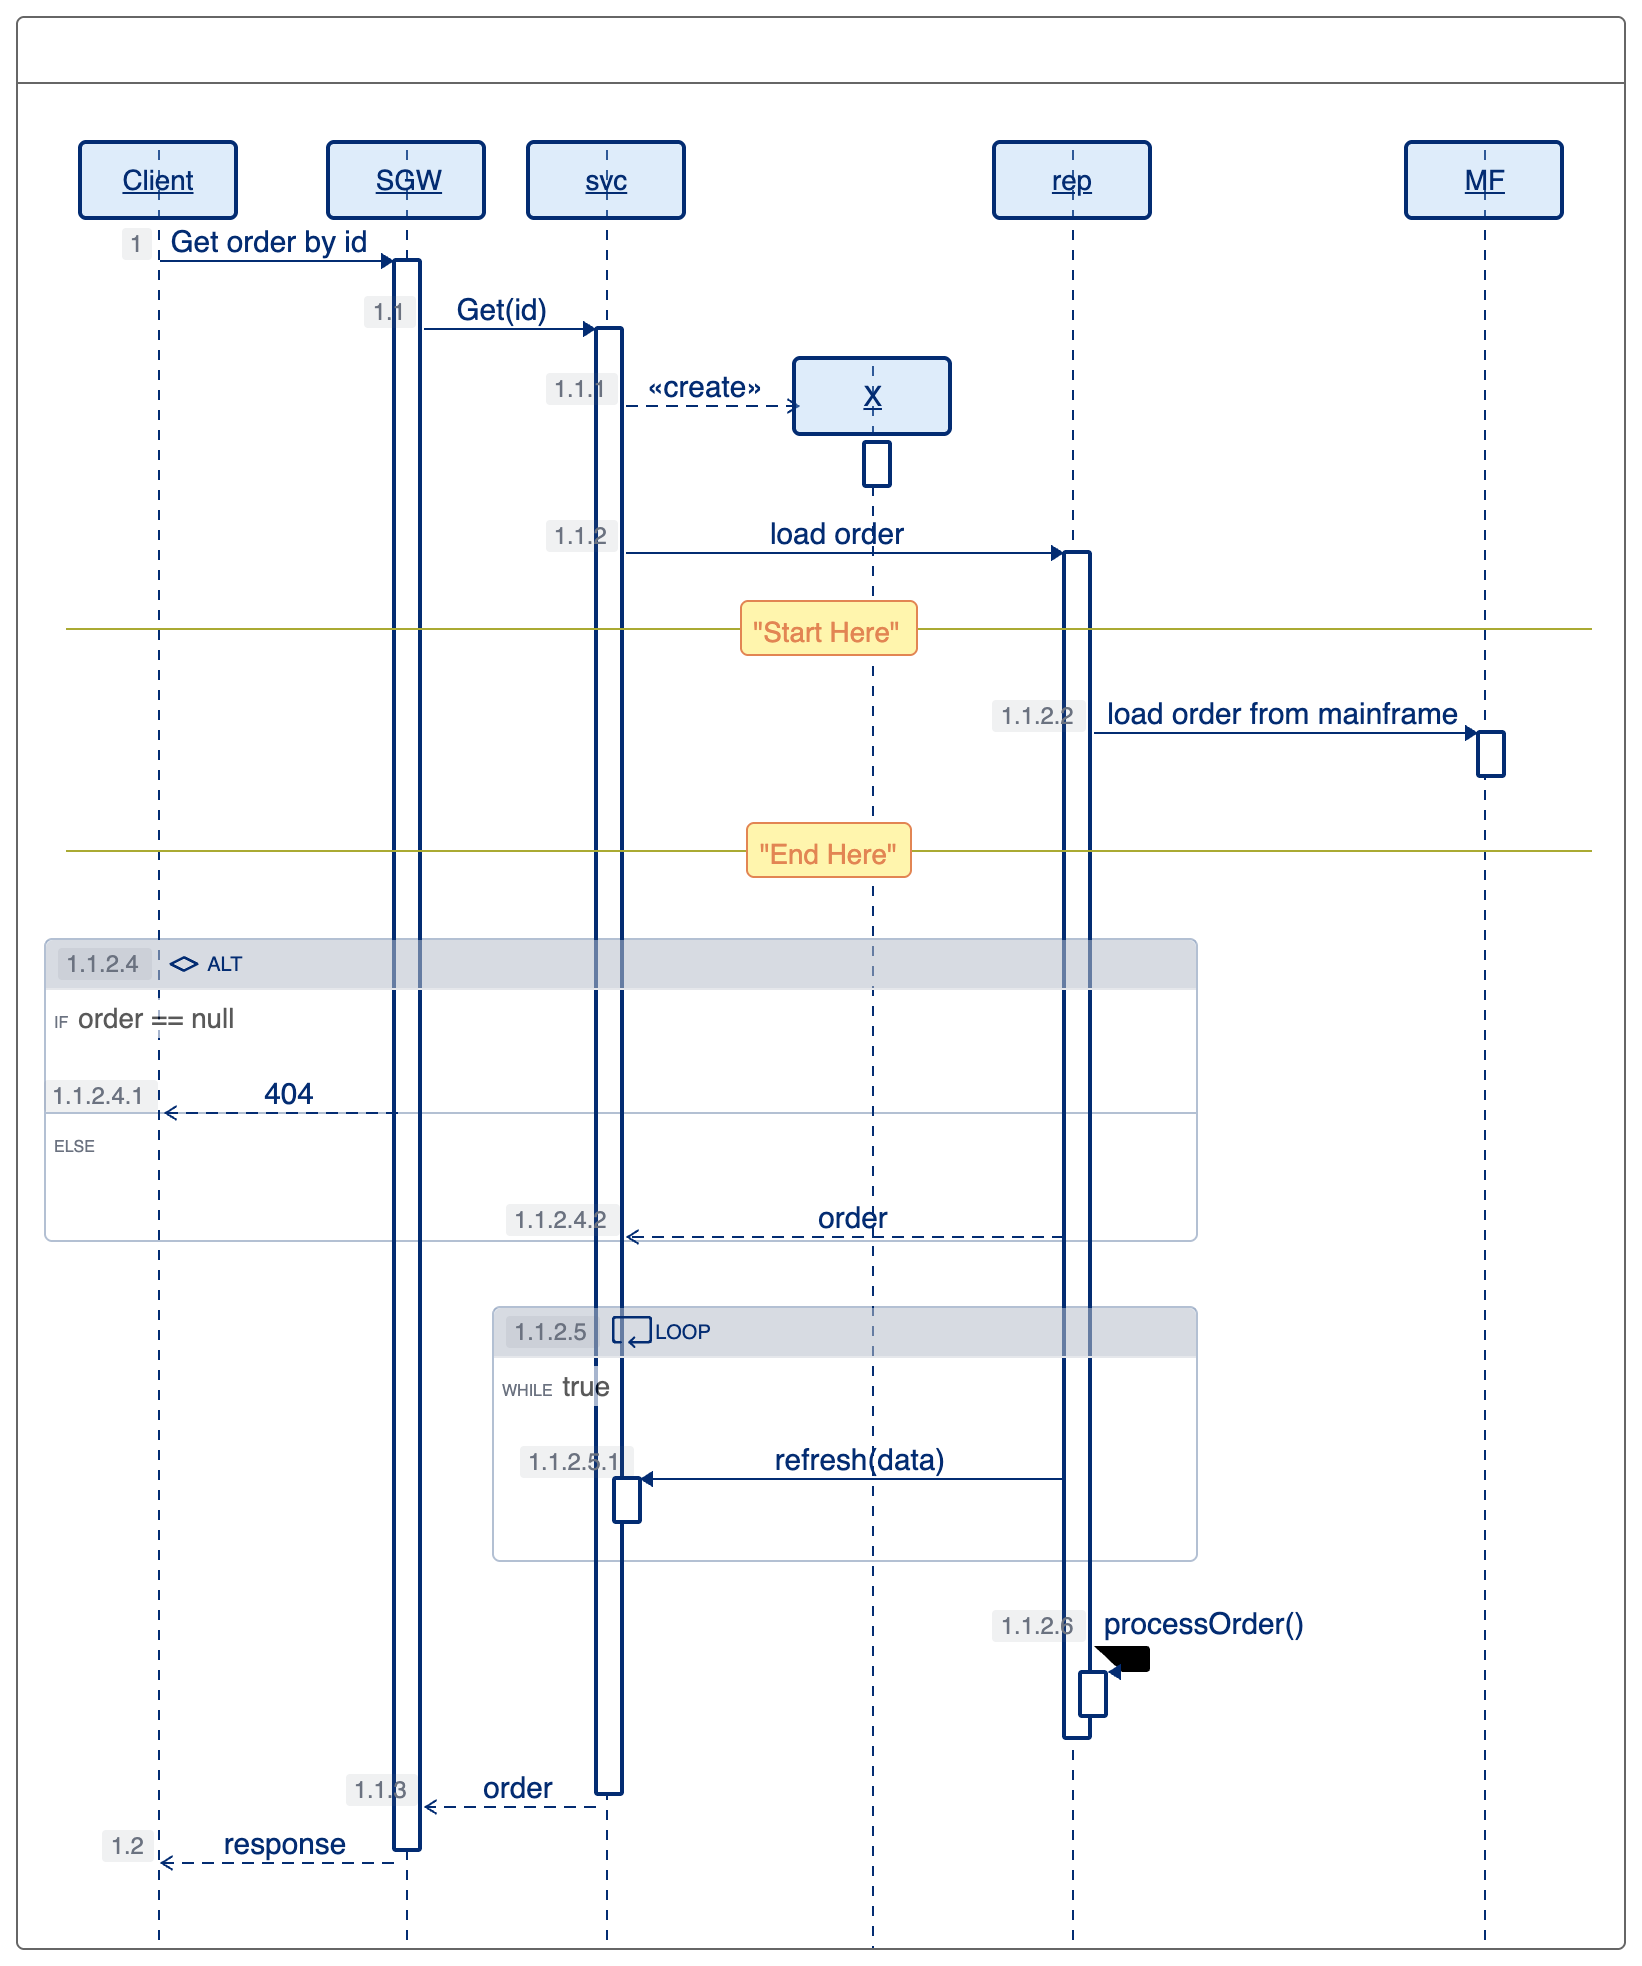
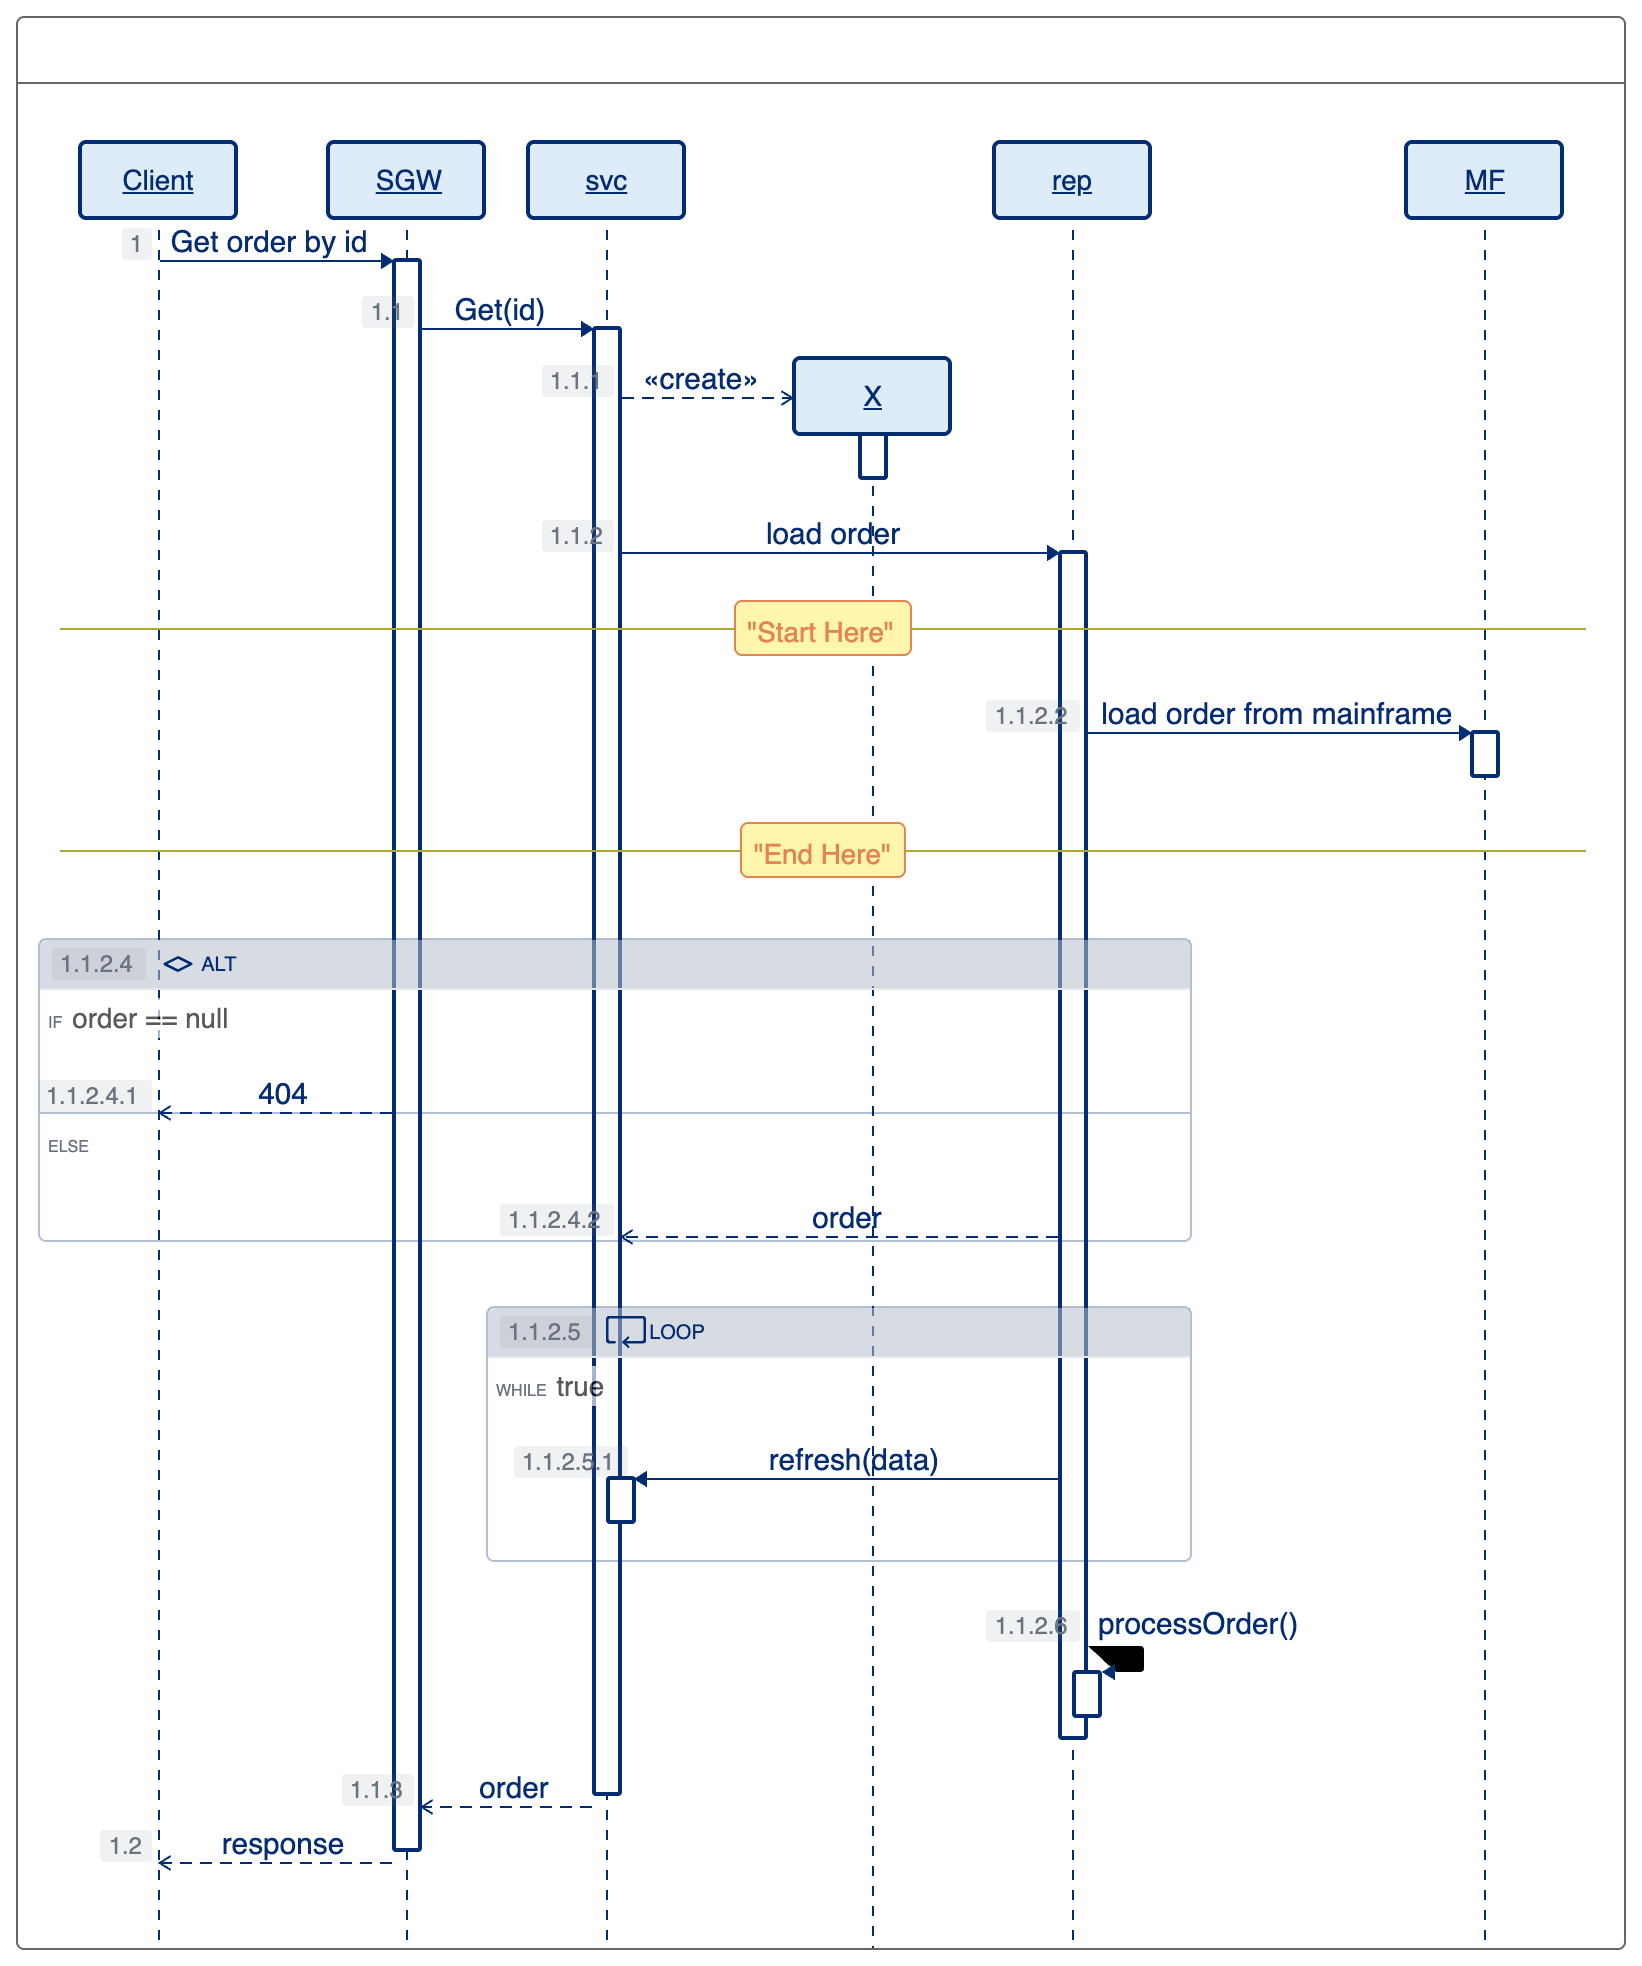
docs: verify integrated Blue geometry and transparent exports

diff --git a/artifacts/blue-integrated/preview.html b/artifacts/blue-integrated/preview.html
@@ -1,0 +1,1 @@
+<!doctype html><meta charset="utf-8"><title>Blue 当前本地候选</title><h1>Blue：透明外围与对齐修复</h1><p>使用当前 4467 候选，链接内含模板数据，可在不同浏览器中打开。</p><p><a href="http://127.0.0.1:4467/?code=%7B%22title%22%3A%22Advanced%22%2C%22mainSizes%22%3A%5B30%2C70%5D%2C%22htmlMode%22%3A%22html%22%2C%22cssMode%22%3A%22less%22%2C%22jsMode%22%3A%22js%22%2C%22js%22%3A%22Client-%3ESGW.%5C%22Get%20order%20by%20id%5C%22%20%7B%5Cn%20%20svc.Get(id)%20%7B%5Cn%20%20%20%20new%20X()%5Cn%20%20%20%20rep.%5C%22load%20order%5C%22%20%7B%5Cn%20%20%20%20%20%20%3D%3D%5C%22Start%20Here%5C%22%3D%3D%5Cn%20%20%20%20%20%20MF.%5C%22load%20order%20from%20mainframe%5C%22%5Cn%20%20%20%20%20%20%3D%3D%5C%22End%20Here%5C%22%3D%3D%5Cn%20%20%20%20%20%20if(order%20%3D%3D%20null)%20%7B%5Cn%20%20%20%20%20%20%20%20%40return%20%5Cn%20%20%20%20%20%20%20%20SGW-%3EClient%3A404%5Cn%20%20%20%20%20%20%7D%20else%20%7B%5Cn%20%20%20%20%20%20%20%20return%20order%5Cn%20%20%20%20%20%20%7D%5Cn%20%20%20%20%20%20%5Cn%20%20%20%20%20%20while(true)%20%7B%5Cn%20%20%20%20%20%20%20%20svc.refresh(data)%5Cn%20%20%20%20%20%20%7D%5Cn%20%20%20%20%20%20processOrder()%5Cn%20%20%20%20%7D%5Cn%20%20%20%20return%20order%5Cn%20%20%7D%5Cn%20%20return%20response%5Cn%7D%22%2C%22css%22%3A%22%40fragmentBorderColor%3A%20rgba(4%2C%2046%2C%20110%2C%200.30)%3B%5Cn%40nameBackgroundColor%3A%20rgba(4%2C%2046%2C%20110%2C%200.10)%3B%5Cn%40labelTextColor%3A%20%23032C72%3B%5Cn%40messageLineColor%3A%20%23032C72%3B%5Cn%40occuranceBorderColor%3A%20%23032C72%3B%5Cn%40occuranceBackgroundColor%3A%20%23fff%3B%5Cn%40participantLineColor%3A%20%23032C72%3B%5Cn%40participantBorderColor%3A%20%23032C72%3B%5Cn%40participantTextColor%3A%20%23032C72%3B%5Cn%40participantBackgroundColor%3A%20rgba(146%2C%20192%2C%20240%2C%200.30)%3B%5Cn%40dividerBackgroundColor%3A%20%23E28553%3B%5Cn%40dividerBorderColor%3A%20%23E28553%3B%5Cn%40dividerTextColor%3A%20%23E28553%3B%5Cn%5Cn%23diagram%20%7B%5Cn%20%20.sequence-diagram%20%7B%5Cn%20%20%20%20.divider%20%7B%5Cn%20%20%20%20%20%20.name%20%7B%5Cn%20%20%20%20%20%20%20%20padding%3A%202px%206px%202px%206px%3B%5Cn%20%20%20%20%20%20%20%20border-radius%3A%204px%3B%5Cn%20%20%20%20%20%20%20%20margin%3A%200px%3B%5Cn%20%20%20%20%20%20%20%20border-color%3A%20%40dividerBorderColor%3B%5Cn%20%20%20%20%20%20%20%20color%3A%20%40dividerTextColor%3B%5Cn%20%20%20%20%20%20%7D%5Cn%20%20%20%20%20%20.left%20%7B%5Cn%20%20%20%20%20%20%20%20background%3A%20%40dividerBackgroundColor%3B%5Cn%20%20%20%20%20%20%7D%5Cn%20%20%20%20%20%20.right%20%7B%5Cn%20%20%20%20%20%20%20%20background%3A%20%40dividerBackgroundColor%3B%5Cn%20%20%20%20%20%20%7D%5Cn%20%20%20%20%7D%5Cn%20%20%20%20.lifeline%20%7B%5Cn%20%20%20%20%20%20.participant%20%7B%5Cn%20%20%20%20%20%20%20%20font-weight%3A%20400%3B%5Cn%20%20%20%20%20%20%20%20border%3A%202px%20solid%20%40participantBorderColor%3B%5Cn%20%20%20%20%20%20%20%20background%3A%20%40participantBackgroundColor%3B%20%20%20%20%20%20%5Cn%20%20%20%20%20%20%20%20label%20%7B%5Cn%20%20%20%20%20%20%20%20%20%20text-decoration%3A%20underline%3B%5Cn%20%20%20%20%20%20%20%20%20%20color%3A%20%40participantTextColor%3B%5Cn%20%20%20%20%20%20%20%20%7D%5Cn%20%20%20%20%20%20%7D%5Cn%20%20%20%20%20%20.line%20%7B%5Cn%20%20%20%20%20%20%20%20border-left-color%3A%20%40participantLineColor%3B%5Cn%20%20%20%20%20%20%7D%5Cn%20%20%20%20%7D%5Cn%20%20%20%20.message%20%7B%5Cn%20%20%20%20%20%20.name%20%7B%5Cn%20%20%20%20%20%20%20%20padding-bottom%3A%201px%3B%5Cn%20%20%20%20%20%20%20%20color%3A%20%40messageLineColor%3B%5Cn%20%20%20%20%20%20%7D%5Cn%20%20%20%20%20%20border-bottom-color%3A%20%40messageLineColor%3B%5Cn%20%20%20%20%20%20svg%20%7B%5Cn%20%20%20%20%20%20%20%20polyline%20%7B%5Cn%20%20%20%20%20%20%20%20%20%20fill%3A%20%40messageLineColor%3B%5Cn%20%20%20%20%20%20%20%20%20%20stroke%3A%20%40messageLineColor%3B%5Cn%20%20%20%20%20%20%20%20%7D%5Cn%20%20%20%20%20%20%7D%5Cn%20%20%20%20%7D%5Cn%20%20%20%20.message.self%20%7B%5Cn%20%20%20%20%20%20svg%3Epolyline%3Anot(.head)%20%7B%5Cn%20%20%20%20%20%20%20%20fill%3A%20none%3B%5Cn%20%20%20%20%20%20%7D%5Cn%20%20%20%20%7D%5Cn%20%20%20%20.occurrence%20%7B%5Cn%20%20%20%20%20%20background-color%3A%20white%3B%5Cn%20%20%20%20%20%20border%3A%202px%20solid%20%40occuranceBorderColor%3B%5Cn%20%20%20%20%20%20background-color%3A%20%40occuranceBackgroundColor%3B%5Cn%20%20%20%20%7D%5Cn%20%20%20%20.fragment%20%7B%5Cn%20%20%20%20%20%20margin-top%3A%208px%3B%5Cn%20%20%20%20%20%20margin-bottom%3A%208px%3B%5Cn%20%20%20%20%20%20border-radius%3A%204px%3B%5Cn%20%20%20%20%20%20border%3A%201px%20solid%20%40fragmentBorderColor%3B%5Cn%20%20%20%20%20%20.fragment.par%3E.block%3E.statement-container%3Anot(%3Afirst-child)%2C%20.segment%3Anot(%3Afirst-child)%20%7B%5Cn%20%20%20%20%20%20%20%20border-top%3A%201px%20solid%20%40fragmentBorderColor%3B%5Cn%20%20%20%20%20%20%7D%5Cn%20%20%20%20%20%20.header%20%7B%5Cn%20%20%20%20%20%20%20%20.name%20%7B%5Cn%20%20%20%20%20%20%20%20%20%20padding%3A%204px%204px%204px%206px%3B%5Cn%20%20%20%20%20%20%20%20%20%20background%3A%20%40nameBackgroundColor%3B%5Cn%20%20%20%20%20%20%20%20%20%20label%20%7B%20%2F*%20name%20label%20*%2F%5Cn%20%20%20%20%20%20%20%20%20%20%20%20background%3A%20transparent%3B%5Cn%20%20%20%20%20%20%20%20%20%20%20%20padding%3A%200px%3B%5Cn%20%20%20%20%20%20%20%20%20%20%20%20color%3A%20%40labelTextColor%3B%5Cn%20%20%20%20%20%20%20%20%20%20%7D%5Cn%20%20%20%20%20%20%20%20%7D%5Cn%20%20%20%20%20%20%7D%5Cn%20%20%20%20%7D%5Cn%20%20%20%20.statement-container%20%7B%5Cn%20%20%20%20%20%20margin-bottom%3A%208px%3B%5Cn%20%20%20%20%7D%5Cn%20%20%7D%5Cn%7D%5Cn%2F*%20ZenUML%20bundled%20template%3A%20light%20canvas%20*%2F%5Cn%23diagram%20.bg-skin-canvas%20%7B%20background%3A%20transparent%20!important%3B%20--color-bg-frame%3A%20%23fff%3B%20%7D%5Cn%23diagram%20.sequence-diagram%20%7B%20color%3A%20%40labelTextColor%3B%20--blue-participant-height%3A%202.5rem%3B%20%7D%5Cn%23diagram%20.sequence-diagram%20.message%20svg%20%7B%20color%3A%20%40messageLineColor%3B%20%7D%5Cn%23diagram%20.sequence-diagram%20.lifeline%20.participant%20%7B%20height%3A%20var(--blue-participant-height)%3B%20%7D%5Cn%23diagram%20.sequence-diagram%20.lifeline%20.line%20%7B%20--color-border-base%3A%20%40participantLineColor%3B%20margin-top%3A%20var(--blue-participant-height)%3B%20%7D%5Cn%23diagram%20.sequence-diagram%20.participant-name%20%7B%20color%3A%20%40participantTextColor%3B%20text-decoration%3A%20underline%3B%20%7D%5Cn%23diagram%20.sequence-diagram%20.message%20.name%20%7B%20color%3A%20%40messageLineColor%3B%20%7D%5Cn%23diagram%20.sequence-diagram%20.fragment%20.header%20.name%2C%5Cn%23diagram%20.sequence-diagram%20.fragment%20.header%20.condition%20%7B%20color%3A%20%40labelTextColor%3B%20%7D%5Cn%23diagram%20.sequence-diagram%20.divider%20.name%20%7B%20padding%3A%202px%206px%20!important%3B%20border-radius%3A%204px%20!important%3B%20margin%3A%200%20!important%3B%20border-color%3A%20%40dividerBorderColor%20!important%3B%20color%3A%20%40dividerTextColor%20!important%3B%20%7D%5Cn%23diagram%20.sequence-diagram%20.divider%20.left%2C%5Cn%23diagram%20.sequence-diagram%20.divider%20.right%20%7B%20background%3A%20%40dividerBackgroundColor%20!important%3B%20%7D%5Cn%2F%2F%20The%20Blue%20occurrence%20has%20a%202px%20border%3B%20one%20less%20pixel%20of%20left%20padding%20keeps%5Cn%2F%2F%20each%20nested%20occurrence%20centered%20instead%20of%20accumulating%20a%201px%20offset.%5Cn%23diagram%20.sequence-diagram%20.occurrence%20%7B%20padding-left%3A%206px%3B%20%7D%5Cn%2F%2F%20Keep%20creation%20arrows%20at%20the%20participant&#x27;s%202px%20border%2C%20independent%20of%20name%20width.%5Cn%2F%2F%20The%20core%20calculates%20the%20message%20width%20from%20that%20name%2C%20so%20only%20trim%20its%20line%20and%20arrow.%5Cn%23diagram%20.sequence-diagram%20.creation%3Anot(.right-to-left)%20%3E%20.message-container%20%3E%20.message%20%7B%20top%3A%20-4px%3B%20%7D%5Cn%23diagram%20.sequence-diagram%20.creation%3Anot(.right-to-left)%20%3E%20.message-container%20%3E%20.message%20%3E%20svg%3Afirst-of-type%20%7B%20width%3A%20calc(100%25%20-%201px)%3B%20%7D%5Cn%23diagram%20.sequence-diagram%20.creation%3Anot(.right-to-left)%20%3E%20.message-container%20%3E%20.message%20%3E%20svg%3Anth-of-type(2)%20%7B%20right%3A%201px%3B%20%7D%5Cn%23diagram%20.sequence-diagram%20.creation%3Anot(.right-to-left)%20%3E%20.occurrence%20%7B%20transform%3A%20translateY(-4px)%3B%20%7D%5Cn%22%2C%22html%22%3A%22%22%7D">打开实际交互预览</a></p><p>虚线从头框底边开始；创建箭头和激活条对齐；外围透明、frame 白底、蓝色填充透明度 0.3。</p><img style="max-width:100%" src="blue-current.png"><p><a href="blue-template.png">实际透明 PNG 导出</a></p>

diff --git a/artifacts/blue-integrated/README.md b/artifacts/blue-integrated/README.md
@@ -1,0 +1,13 @@
+# Blue integration — local candidate
+
+Source commit fc1c7d53 manually integrates e68ed90f and 6f64789b while preserving 55530f3d transparent outer canvas. No core geometry changes. Open preview.html for a storage-independent interactive preview link on port 4467 and actual screenshot/export.
+
+Actual same-candidate evidence at 100% zoom in geometry.json:
+- All six lifelines start exactly at participant bottom; their lower endpoints stay at 982px.
+- Creation arrow edge and vertical-center deltas: 0px.
+- SGW/svc/rep/MF/X activation center deltas: 0px; X activation shares 2px header border.
+- All participant fills remain rgba(146,192,240,0.3).
+- Outer canvas transparent; frame white; WS workspace dark.
+- Actual PNG corners RGBA [0,0,0,0], frame sample [255,255,255,255].
+
+10 browser regressions passed, including long creation names and 3rem shared header heights. 19 focused unit tests and typecheck passed. Independent code review found no issues and verified historical exact CSS matches. Edited CustomCSS is not rewritten. No push, merge, npm publish, or deployment.

diff --git a/artifacts/outer-canvas/README.md b/artifacts/outer-canvas/README.md
@@ -16,3 +16,5 @@ Frame and element colors remain painted. Only the default outer canvas is transp
 npm publication, WebSequence merge, push and deployments remain paused. No production release occurred during this local task.
 
 Blue follow-up (`55530f3d`): new and exact previously generated bundled Blue CSS now keep the outer canvas transparent. Author-edited CSS is preserved. 20 focused unit tests, typecheck and both Blue browser cases passed; actual PNG corners alpha 0 and frame alpha 255.
+
+Blue geometry follow-up (`fc1c7d53`): integrated arrow/activation alignment and lifeline starts below translucent headers. Updated Blue screenshot/export above; see ../blue-integrated/preview.html and geometry.json for same-candidate proof.
